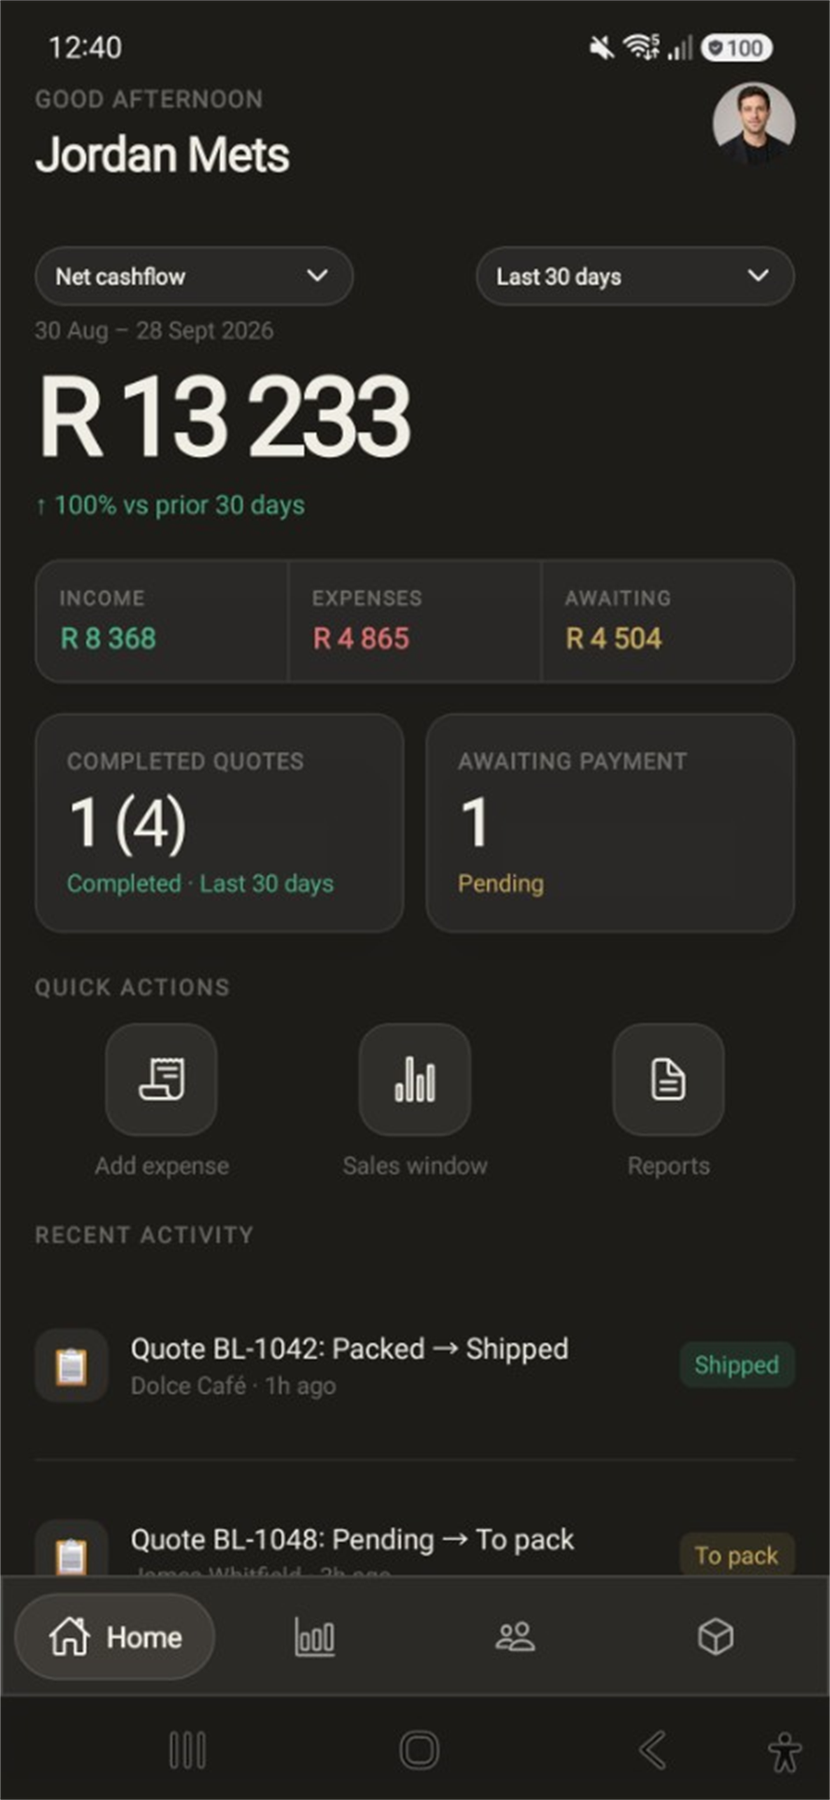
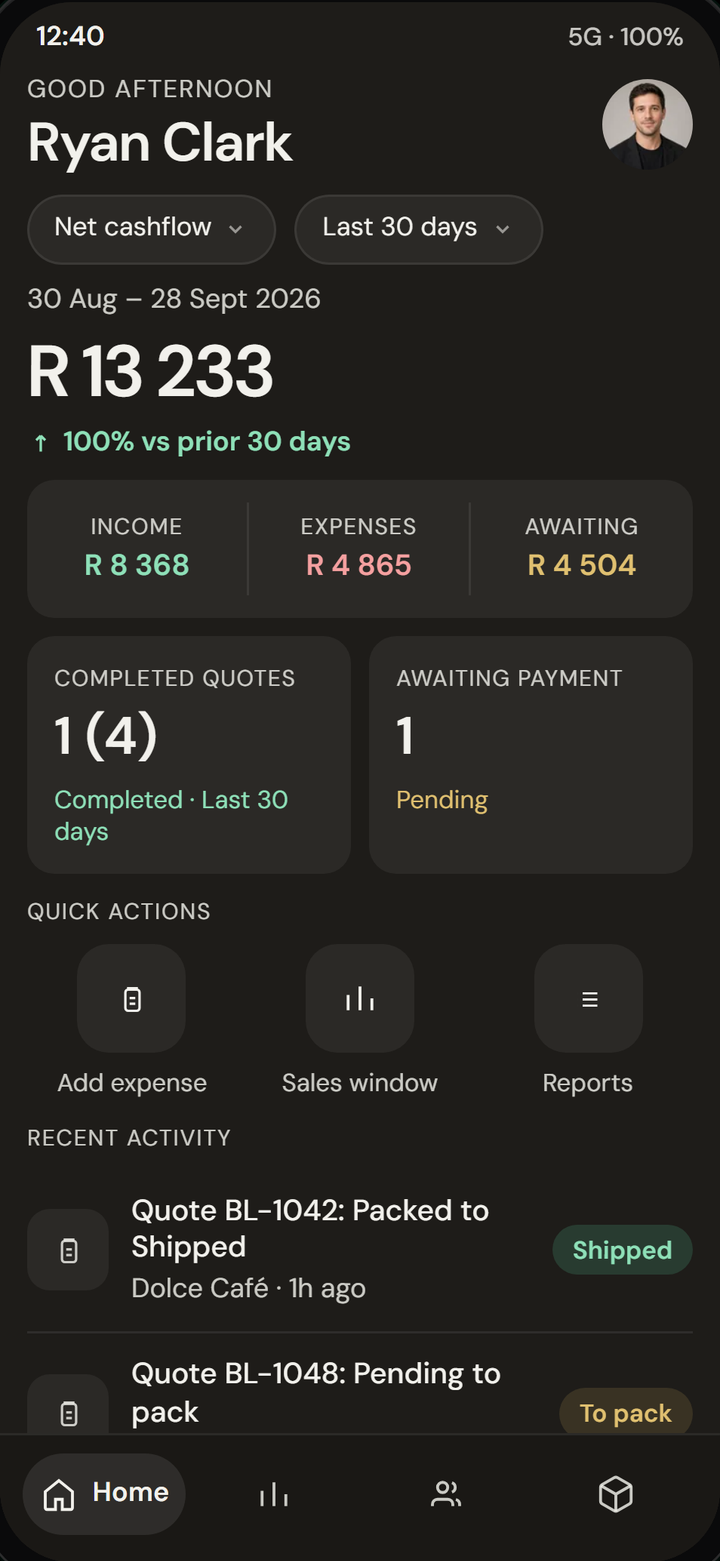
Ship WebP assets, fix demo tofu glyphs, and tighten phone-mock a11y.
Compress hero/demo images for LCP, restore UTF-8 demo copy, and replace missing-font symbols with SVGs so diamond replacement characters stop showing in the HTML mocks.

diff --git a/src/demo/screens.ts b/src/demo/screens.ts
@@ -54,6 +54,9 @@ const ICO = {
   doc: `<svg viewBox="0 0 24 24" width="18" height="18" fill="none" stroke="currentColor" stroke-width="1.7"><path d="M7 3h7l5 5v13a1 1 0 0 1-1 1H7a1 1 0 0 1-1-1V4a1 1 0 0 1 1-1z"/><path d="M14 3v5h5M9 13h6M9 17h6"/></svg>`,
   check: `<svg viewBox="0 0 24 24" width="20" height="20" fill="none" stroke="currentColor" stroke-width="1.8"><circle cx="12" cy="12" r="9"/><path d="m8.5 12.5 2.5 2.5 4.5-5"/></svg>`,
   caretDown: `<svg viewBox="0 0 24 24" width="18" height="18" fill="none" stroke="currentColor" stroke-width="1.8"><path d="m7 10 5 5 5-5"/></svg>`,
+  caretMini: `<svg class="dm-caret" viewBox="0 0 24 24" width="12" height="12" fill="none" stroke="currentColor" stroke-width="2.2" aria-hidden="true"><path d="m7 10 5 5 5-5"/></svg>`,
+  trendUp: `<svg viewBox="0 0 24 24" width="12" height="12" fill="none" stroke="currentColor" stroke-width="2.2" aria-hidden="true"><path d="M12 19V5M12 5l-4 4M12 5l4 4"/></svg>`,
+  sectionMark: `<svg viewBox="0 0 24 24" width="12" height="12" fill="none" stroke="currentColor" stroke-width="2.2" aria-hidden="true"><path d="m7 10 5 5 5-5"/></svg>`,
   wa: `<svg viewBox="0 0 24 24" width="15" height="15" fill="currentColor"><path d="M12 3a8.5 8.5 0 0 0-7.4 12.7L3.5 20.5l4.9-1.3A8.5 8.5 0 1 0 12 3zm4.7 12.1c-.2.6-1.2 1.1-1.7 1.2-.4.1-.9.2-2.9-.6-2.4-1-4-3.6-4.1-3.8-.1-.2-1-1.3-1-2.5s.6-1.8.9-2c.2-.2.5-.3.7-.3h.5c.2 0 .4 0 .6.4.2.5.7 1.8.8 1.9.1.2.1.3 0 .5l-.3.5c-.1.2-.3.3-.1.6.1.3.6 1 .1.4 1.6.7 1.6.5 1.8.5.2 0 .3 0 .4-.1.1-.1.5-.6.6-.8.1-.2.3-.2.5-.1l1.4.7c.2.1.3.1.4.2.1.2.1.5-.1 1.1z"/></svg>`,
 };
 
@@ -165,12 +168,12 @@ function renderHome(data: DemoData): string {
       <img class="dm-avatar" src="${imgSrc(data.profile.avatar)}" alt="" width="40" height="40" />
     </div>
     <div class="dm-pills">
-      <button type="button" class="dm-pill">${esc(h.metric)} <span class="dm-caret">▾</span></button>
-      <button type="button" class="dm-pill">${esc(h.period_label)} <span class="dm-caret">▾</span></button>
+      <button type="button" class="dm-pill">${esc(h.metric)} ${ICO.caretMini}</button>
+      <button type="button" class="dm-pill">${esc(h.period_label)} ${ICO.caretMini}</button>
     </div>
     <div class="dm-date">${esc(h.date_range)}</div>
     <div class="dm-hero-amount">${zar(h.net_cashflow_cents)}</div>
-    <div class="dm-trend">↑ ${esc(h.trend_label)}</div>
+    <div class="dm-trend">${ICO.trendUp} ${esc(h.trend_label)}</div>
     <div class="dm-stat-row">
       <div><div class="dm-k">Income</div><div class="dm-v good">${zar(h.income_cents)}</div></div>
       <div><div class="dm-k">Expenses</div><div class="dm-v bad">${zar(h.expenses_cents)}</div></div>
@@ -221,7 +224,7 @@ function renderSalesWindow(data: DemoData): string {
       <div class="dm-sub">Products from ${s.paid_quotes} paid quotes</div>
       <div class="dm-summary-meta">
         <span>${esc(s.date_range)}</span>
-        <button type="button" class="dm-pill sm">${esc(s.period_label)} <span class="dm-caret">▾</span></button>
+        <button type="button" class="dm-pill sm">${esc(s.period_label)} ${ICO.caretMini}</button>
       </div>
       <div class="dm-grid-2">
         <div><div class="dm-k">Sold</div><div class="dm-v">${zar(s.sold_cents)}</div></div>
@@ -234,8 +237,8 @@ function renderSalesWindow(data: DemoData): string {
       <span class="on">Products</span><span>Packaging</span><span>Shipping</span>
     </div>
     <div class="dm-pills">
-      <button type="button" class="dm-pill">${ICO.layers} Month <span class="dm-caret">▾</span></button>
-      <button type="button" class="dm-pill">${ICO.sort} Units sold <span class="dm-caret">▾</span></button>
+      <button type="button" class="dm-pill">${ICO.layers} Month ${ICO.caretMini}</button>
+      <button type="button" class="dm-pill">${ICO.sort} Units sold ${ICO.caretMini}</button>
     </div>
     <div class="dm-card">
       <div class="dm-group-head">
@@ -276,8 +279,8 @@ function renderSales(data: DemoData): string {
   const body = `
     <div class="dm-toolbar">
       <div class="dm-search">${ICO.search}<span>Search quotes...</span></div>
-      <button type="button" class="dm-pill">${ICO.sort} Ship date <span class="dm-caret">▾</span></button>
-      <button type="button" class="dm-icon-btn">${ICO.filter}</button>
+      <button type="button" class="dm-pill">${ICO.sort} Ship date ${ICO.caretMini}</button>
+      <button type="button" class="dm-icon-btn" aria-label="Filter">${ICO.filter}</button>
     </div>
     <div class="dm-cards">
       ${data.ui.quotes_list
@@ -303,7 +306,7 @@ function renderSales(data: DemoData): string {
   return shell({
     activeTab: 'Sales',
     title: 'Quotes',
-    right: `<button type="button" class="dm-icon-btn">${ICO.gear}</button><button type="button" class="dm-add">${ICO.plus} New quote</button>`,
+    right: `<button type="button" class="dm-icon-btn" aria-label="Settings">${ICO.gear}</button><button type="button" class="dm-add">${ICO.plus} New quote</button>`,
     body,
   });
 }
@@ -415,14 +418,14 @@ function renderCatalog(data: DemoData): string {
       <span class="on">Products</span><span>Packaging</span><span>Shipping</span>
     </div>
     <div class="dm-toolbar">
-      <button type="button" class="dm-pill">${ICO.sort} Popular <span class="dm-caret">▾</span></button>
-      <button type="button" class="dm-icon-btn">${ICO.filter}</button>
+      <button type="button" class="dm-pill">${ICO.sort} Popular ${ICO.caretMini}</button>
+      <button type="button" class="dm-icon-btn" aria-label="Filter">${ICO.filter}</button>
       <div class="dm-view-toggle">
         <span class="on">${ICO.list} List</span>
         <span>${ICO.grid} Grid</span>
       </div>
     </div>
-    <div class="dm-section-label">⌄ Uncategorized · ${products.length}</div>
+    <div class="dm-section-label">${ICO.sectionMark} Uncategorized · ${products.length}</div>
     <div class="dm-cards">
       ${products
         .map((p) => {
@@ -459,7 +462,7 @@ function renderCatalog(data: DemoData): string {
   return shell({
     activeTab: 'Catalog',
     title: 'Catalog',
-    right: `<button type="button" class="dm-icon-btn">${ICO.folder}</button><button type="button" class="dm-icon-btn">${ICO.layers}</button><button type="button" class="dm-icon-btn">${ICO.gear}</button><button type="button" class="dm-add">${ICO.plus} Add</button>`,
+    right: `<button type="button" class="dm-icon-btn" aria-label="Folders">${ICO.folder}</button><button type="button" class="dm-icon-btn" aria-label="Layers">${ICO.layers}</button><button type="button" class="dm-icon-btn" aria-label="Settings">${ICO.gear}</button><button type="button" class="dm-add">${ICO.plus} Add</button>`,
     body,
     time: '15:51',
   });
@@ -482,7 +485,7 @@ function renderContacts(data: DemoData): string {
     <div class="dm-toolbar">
       <div class="dm-search grow">${ICO.search}<span>Search contacts...</span></div>
       <button type="button" class="dm-pill">${ICO.sort} Newest</button>
-      <button type="button" class="dm-icon-btn">${ICO.filter}</button>
+      <button type="button" class="dm-icon-btn" aria-label="Filter">${ICO.filter}</button>
     </div>
     <div class="dm-cards">
       ${data.contacts
@@ -517,7 +520,7 @@ function renderContacts(data: DemoData): string {
   return shell({
     activeTab: 'Contacts',
     title: 'Contacts',
-    right: `<button type="button" class="dm-icon-btn">${ICO.phone}</button><button type="button" class="dm-add">${ICO.plus} Add</button>`,
+    right: `<button type="button" class="dm-icon-btn" aria-label="Call">${ICO.phone}</button><button type="button" class="dm-add">${ICO.plus} Add</button>`,
     body,
   });
 }

diff --git a/src/demo/phone-mocks.css b/src/demo/phone-mocks.css
@@ -5,15 +5,15 @@
   --dm-surface: rgba(255, 255, 255, 0.06);
   --dm-surface-2: rgba(255, 255, 255, 0.09);
   --dm-ink: #f2f1ec;
-  --dm-muted: rgba(242, 241, 236, 0.55);
-  --dm-faint: rgba(242, 241, 236, 0.32);
+  --dm-muted: rgba(242, 241, 236, 0.82);
+  --dm-faint: rgba(242, 241, 236, 0.78);
   --dm-line: rgba(255, 255, 255, 0.08);
-  --dm-good: #4caf84;
-  --dm-good-bg: rgba(76, 175, 132, 0.12);
-  --dm-warn: #c8a85c;
-  --dm-warn-bg: rgba(200, 168, 92, 0.12);
-  --dm-bad: #e07070;
-  --dm-bad-bg: rgba(224, 112, 112, 0.1);
+  --dm-good: #8ee0b8;
+  --dm-good-bg: rgba(76, 175, 132, 0.22);
+  --dm-warn: #e0c070;
+  --dm-warn-bg: rgba(200, 168, 92, 0.16);
+  --dm-bad: #f5a0a0;
+  --dm-bad-bg: rgba(224, 112, 112, 0.2);
   --dm-tab: #1a1815;
   --dm-green-cta: #3ee8a0;
 
@@ -373,11 +373,15 @@
 .dm-pill.sm {
   padding: 4px 10px;
   font-size: 11px;
+  color: rgba(255, 255, 255, 0.92);
+  background: rgba(255, 255, 255, 0.14);
+  border-color: rgba(255, 255, 255, 0.28);
 }
 
 .dm-caret {
   opacity: 0.55;
-  font-size: 10px;
+  flex-shrink: 0;
+  vertical-align: -1px;
 }
 
 .dm-date {
@@ -396,6 +400,9 @@
 }
 
 .dm-trend {
+  display: inline-flex;
+  align-items: center;
+  gap: 4px;
   color: var(--dm-good);
   font-size: 12px;
   font-weight: 600;
@@ -492,6 +499,9 @@
 }
 
 .dm-section-label {
+  display: inline-flex;
+  align-items: center;
+  gap: 4px;
   font-size: 10px;
   letter-spacing: 0.06em;
   text-transform: uppercase;
@@ -866,7 +876,7 @@
 
 .dm-workflow-strip .dm-k {
   margin-bottom: 4px;
-  color: rgba(242, 241, 236, 0.5);
+  color: rgba(242, 241, 236, 0.85);
 }
 
 .dm-workflow-status {

diff --git a/index.html b/index.html
@@ -188,12 +188,11 @@
       <section class="exact-hero" aria-label="Vlyt">
         <div class="exact-hero-frame">
           <img
-            src="/images/hero-dark.png"
-            width="1920"
-            height="1080"
+            src="/images/hero-dark.webp"
+            width="1600"
+            height="900"
             alt="Vlyt: run your business from your pocket. Brew Lab home on phone — quotes, catalog, stock and cashflow for South African solo operators."
             decoding="async"
-            fetchpriority="high"
           />
         </div>
       </section>
@@ -232,10 +231,10 @@
           <div class="phone">
             <div class="phone-screen">
               <img
-                src="/screenshots/home.png"
+                src="/screenshots/home.webp"
                 alt="Vlyt Home for Brew Lab: Ryan Clark, net cashflow R 13 233, income, expenses and recent quote activity."
-                width="1180"
-                height="2560"
+                width="720"
+                height="1561"
                 decoding="async"
                 fetchpriority="high"
               />

diff --git a/content/medium/run-sa-business-from-phone.md b/content/medium/run-sa-business-from-phone.md
@@ -45,6 +45,7 @@ Practical guides:
 
 - [How to write a professional quote in South Africa](https://vlyt.app/blog/how-to-write-professional-quote-south-africa/)
 - [How to send a quote on WhatsApp without losing the numbers](https://vlyt.app/blog/send-quote-whatsapp-without-losing-numbers/)
+- [How to follow up open quotes in South Africa](https://vlyt.app/blog/follow-up-open-quotes-south-africa/)
 - [Quote vs invoice in South Africa](https://vlyt.app/blog/quote-vs-invoice-south-africa/)
 - [VAT on quotes for small SA businesses](https://vlyt.app/blog/vat-on-quotes-small-business-sa/)
 
